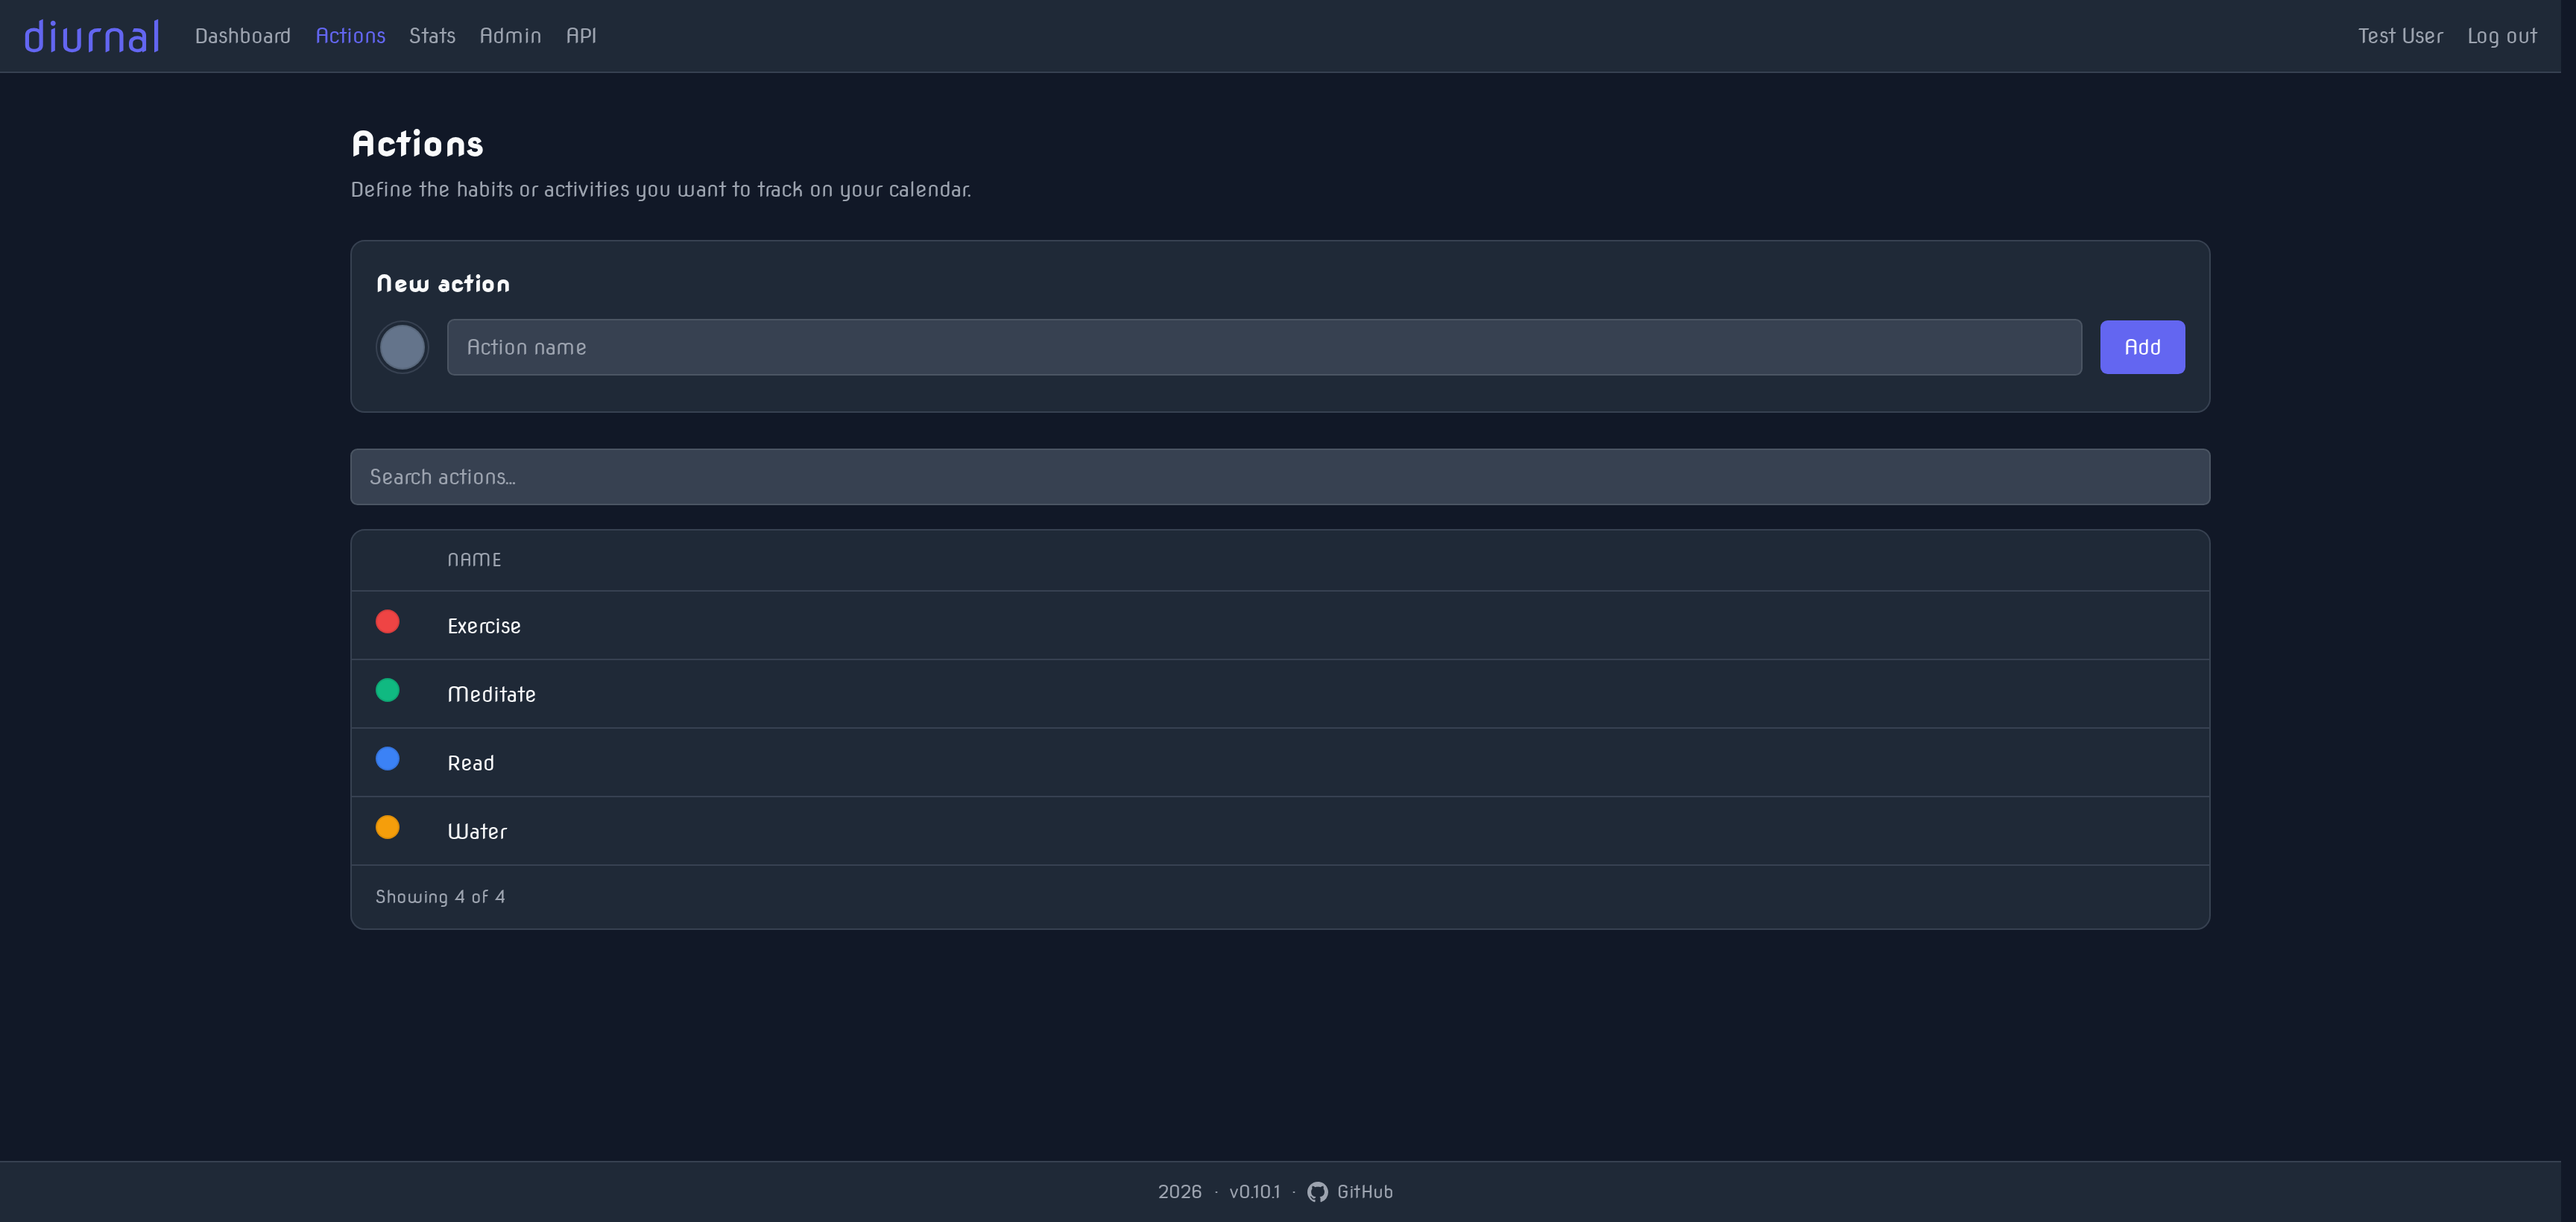
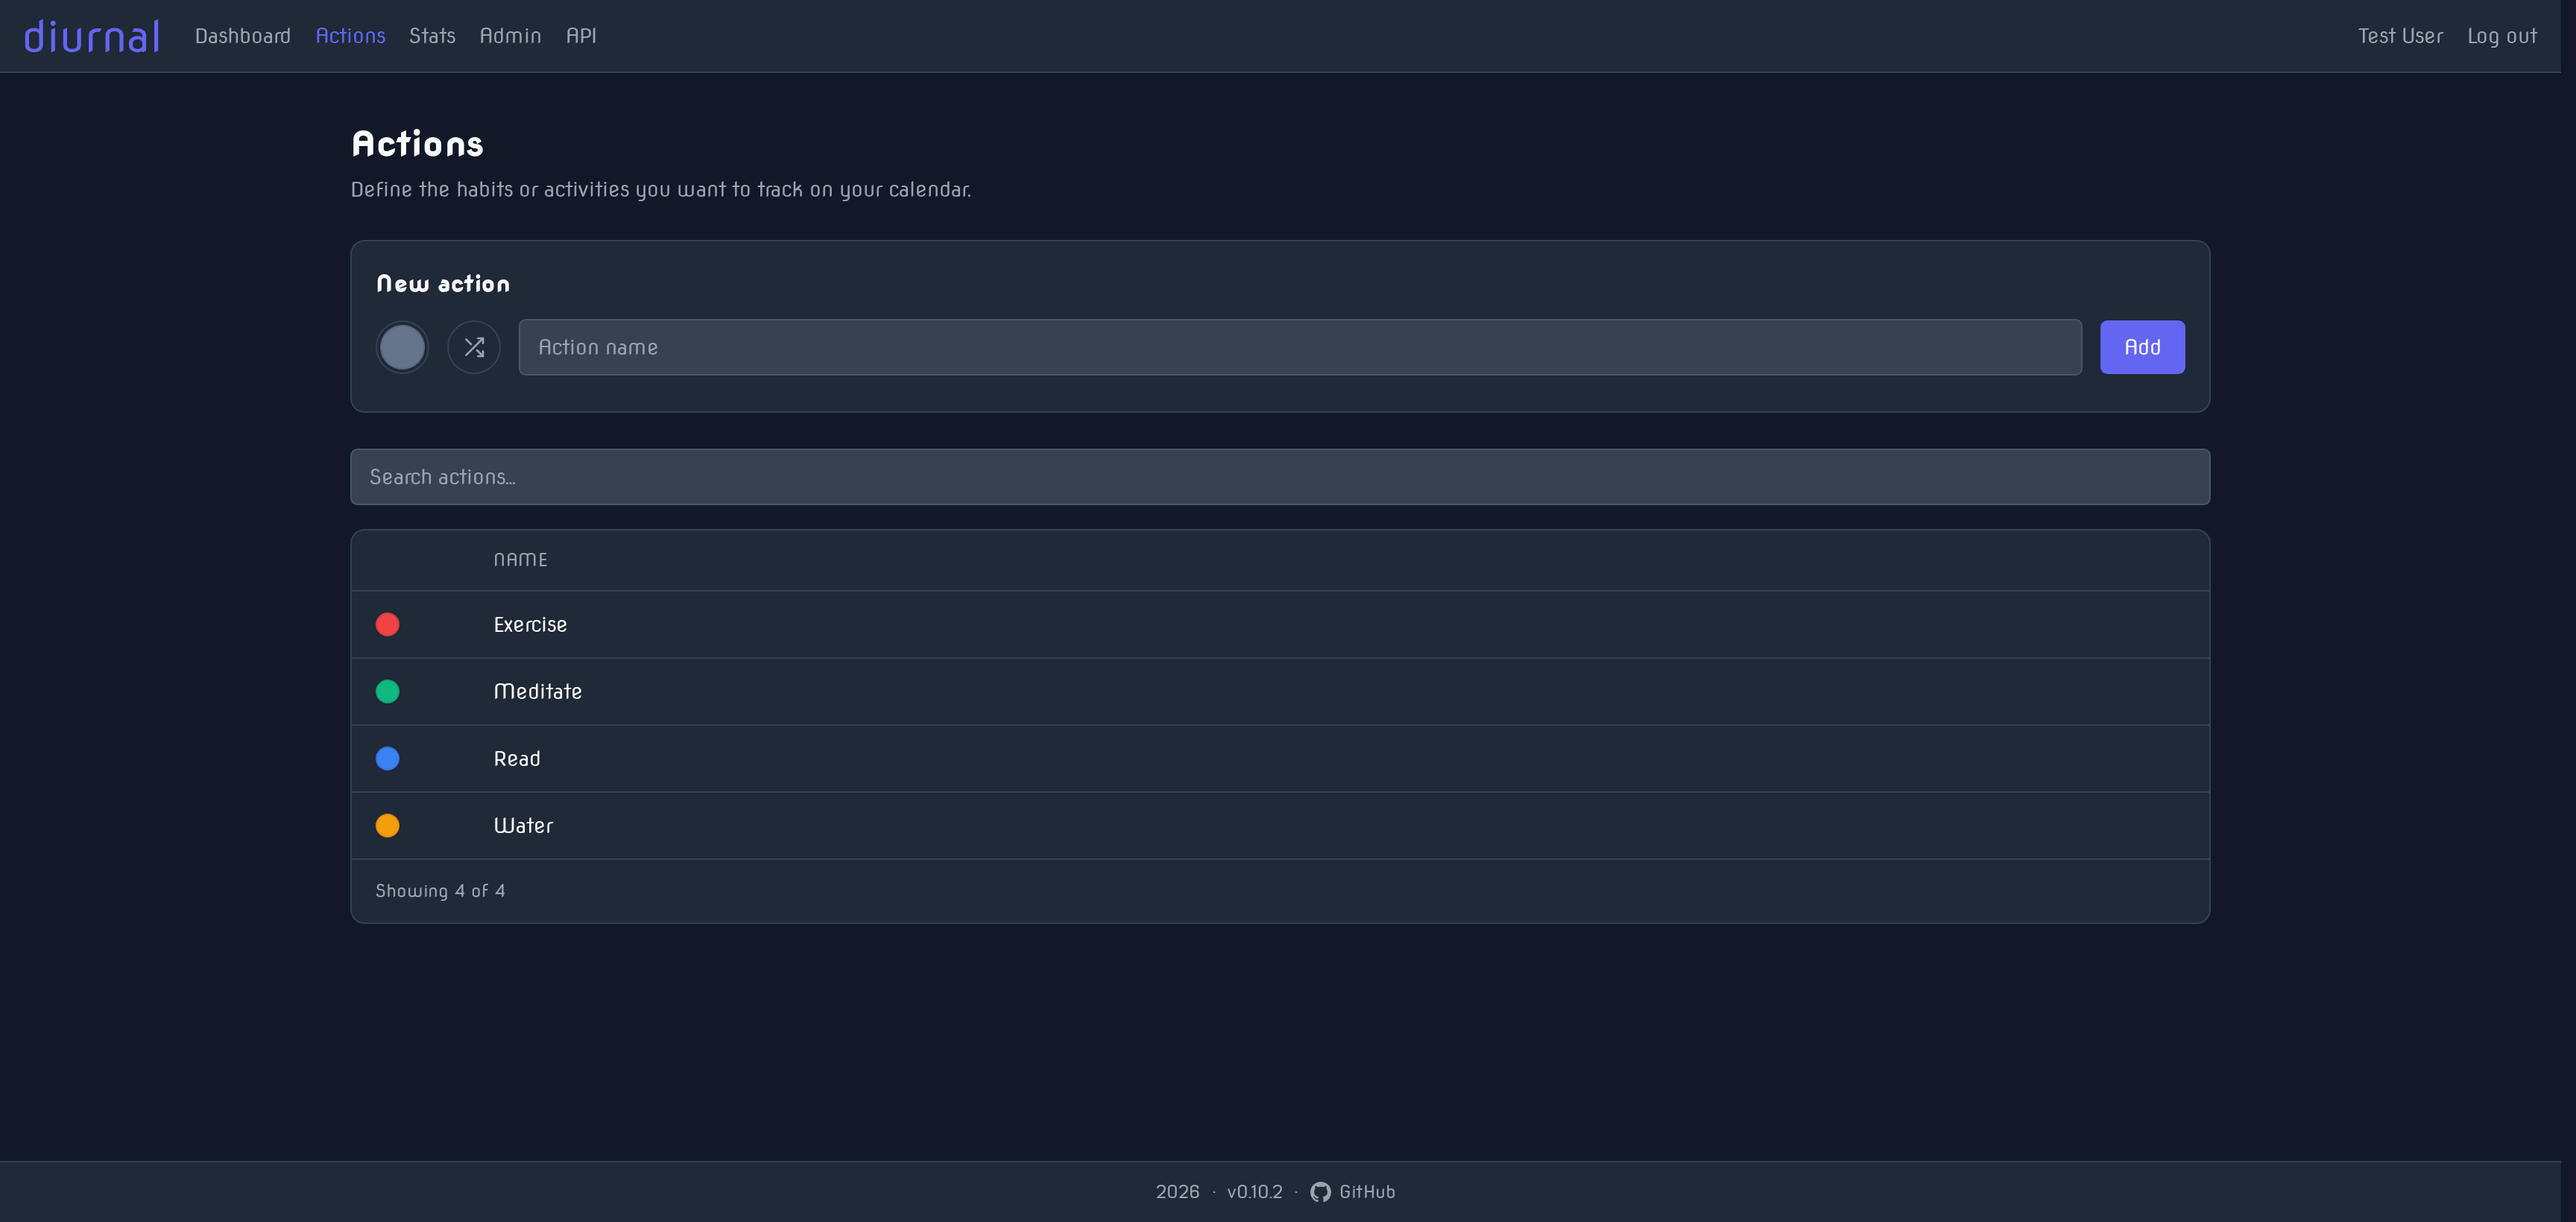
[Settings] Removed 'sessions' section showing last login time, wasn't adding much

diff --git a/src/main/resources/templates/settings.html b/src/main/resources/templates/settings.html
@@ -273,24 +273,6 @@
                         </div>
                         {/if}
 
-                        {! When this account last SIGNED IN - not when it last made a request (which is now, by
-                             definition, since rendering this page is one). lastLoginAt is stamped once per
-                             sign-in, so with a 30-day idle / 90-day absolute session lifetime this can sit weeks
-                             in the past, which is exactly the useful part: it says how long the current run of
-                             "stayed signed in" has lasted, and makes an unexpected recent sign-in visible. The
-                             age leads; the absolute timestamp follows in the user's own timezone. Plain text, no
-                             tooltip - the two readings are the whole content of the field. !}
-                        <div>
-                            <label class="field-label-caps">Last Login</label>
-                            <div class="settings-field">
-                                {#if hasLastLogin}
-                                <p class="text-sm text-ink">{lastLoginAgo}<span class="text-ink-muted"> - {lastLoginLabel}</span></p>
-                                {#else}
-                                <p class="text-sm text-ink-muted">Never</p>
-                                {/if}
-                            </div>
-                        </div>
-
                         {! Log out from everywhere: revokes ALL of this user's sessions (this device
                              included) server-side and returns to /login, forcing a fresh sign-in on every
                              device. Uses the app's in-place confirm idiom (not a native dialog): the trigger

diff --git a/frontend/css/app.css b/frontend/css/app.css
@@ -738,8 +738,16 @@
            wrap, so on a narrow viewport the browser squeezes this column below the width of its own
            content - and the button then wraps onto a SECOND LINE, making every row ~20px taller. With
            nowrap the pair is unbreakable, so the column can never be squeezed below them: the name
-           column gives up the space instead, and the row keeps its single-line height. */
-        .dt-cell-colour { white-space: nowrap; }
+           column gives up the space instead, and the row keeps its single-line height.
+           `width: 1%` (the same shrink-to-content trick as .dt-cell-actions above) pins it there.
+           Without it the column is auto-width, so it takes a SHARE of whatever space auto layout has
+           left over - and how much is left over changes with the row's state: on a narrow viewport the
+           read row overflows the wrap (no leftover, column at its content width), while entering edit
+           swaps the long name text for a `w-full` input that can shrink, letting the table fit and
+           freeing a few pixels to hand back. The column then gained ~2px and pushed the name sideways,
+           which .dt-random-slot below is specifically there to prevent. At `width: 1%` the leftover all
+           goes to the name column, so this one measures the same in both states. */
+        .dt-cell-colour { width: 1%; white-space: nowrap; }
         /* The cell's own content: one centred flex line, so the swatch/picker and the button share an
            axis with each other and with the row (see the note in action-row.html - baseline-aligned
            inline boxes sit high, `vertical-align: middle` sits low). The gap replaces a margin on the

diff --git a/tests/ui/actions.spec.ts b/tests/ui/actions.spec.ts
@@ -137,17 +137,21 @@ test.describe("Actions page", () => {
         ])
 
         // The colour column is sized for its widest (edit) state, so revealing the picker and the
-        // randomise button must not push the name along.
+        // randomise button must not push the name along. Its LEFT EDGE is the assertion (the cell's
+        // own width legitimately changes on a narrow viewport, where the long name text gives way to a
+        // w-full input that can shrink). Measured as offsetLeft WITHIN the table, not as a viewport
+        // box: on a narrow viewport the table overflows its .overflow-x-auto wrap, and focusing the
+        // edit input scrolls that wrap sideways - a scroll, not a shift, which a viewport-relative x
+        // would report as a spurious move.
         const item = page.locator('#action-list [id^="action-"]').filter({ hasText: name })
         const nameCell = item.locator("td").nth(1)
-        const readBox = await nameCell.boundingBox()
+        const cellOffset = (): Promise<number> => nameCell.evaluate((cell: HTMLElement) => cell.offsetLeft)
+        const readOffset = await cellOffset()
         await item.hover()
         await item.getByRole("button", { name: "Edit" }).click()
         await expect(item.locator('input[name="name"]')).toBeVisible()
-        const editBox = await nameCell.boundingBox()
 
-        expect(readBox).not.toBeNull()
-        expect(editBox?.x).toBe(readBox?.x)
+        expect(await cellOffset()).toBe(readOffset)
     })
 
     test("edit action: randomise button recolours the row", async ({ authenticatedPage: page }) => {

diff --git a/src/main/java/net/zodac/diurnal/web/WebResource.java b/src/main/java/net/zodac/diurnal/web/WebResource.java
@@ -44,8 +44,6 @@ import java.net.URI;
 import java.time.Duration;
 import java.time.Instant;
 import java.time.LocalDate;
-import java.time.ZoneId;
-import java.time.format.DateTimeFormatter;
 import java.util.List;
 import java.util.Optional;
 import net.zodac.diurnal.auth.AuthenticationService;
@@ -71,7 +69,6 @@ import net.zodac.diurnal.stats.ActionStatField;
 import net.zodac.diurnal.stats.StatsService;
 import net.zodac.diurnal.stats.StatsSummary;
 import net.zodac.diurnal.time.AppClock;
-import net.zodac.diurnal.time.ElapsedTime;
 import net.zodac.diurnal.user.CalendarView;
 import net.zodac.diurnal.user.CurrentUser;
 import net.zodac.diurnal.user.Font;
@@ -111,10 +108,6 @@ public class WebResource {
 
     // The ?msg= code for a successful connect round trip (failure codes are OidcDenialReason codes).
     private static final String MSG_OIDC_CONNECTED = "oidc-connected";
-
-    // The Account card's absolute last-login timestamp, in the same shape as the admin users table's dates
-    // (zoneless here - the viewing user's zone is bound per render).
-    private static final DateTimeFormatter LAST_LOGIN_FORMATTER = DateTimeFormatter.ofPattern("yyyy-MM-dd HH:mm");
 
     private final Template loginTemplate;
     private final Template registerTemplate;
@@ -796,20 +789,9 @@ public class WebResource {
             settingsMessage = OidcDenialReason.fromCode(msg).map(reason -> reason.message(providerName)).orElse(null);
             settingsMessageIsError = settingsMessage != null;
         }
-        // The Account card's "Last login" readout. lastLoginAt is stamped once per sign-in (password login,
-        // OIDC callback, registration) and is never bumped by ordinary requests, so it really is the last
-        // time this account signed in - unlike the session's last_used_at, which the very act of rendering
-        // this page updates. It reads as an age ("12 days ago") next to the absolute timestamp in the user's
-        // own timezone (no tooltip - the reading is the whole point). Null only for an account that has somehow
-        // never signed in (it could not be viewing this page), handled for template strictness.
-        final ZoneId zone = clock.zoneFor(user.timezone);
-        final Instant lastLogin = user.lastLoginAt;
         return settingsTemplate
                 .data("settingsMessage", settingsMessage)
                 .data("settingsBannerVariant", settingsMessageIsError ? "error" : "success")
-                .data("hasLastLogin", lastLogin != null)
-                .data("lastLoginAgo", lastLogin == null ? "" : ElapsedTime.since(lastLogin, clock.now()))
-                .data("lastLoginLabel", lastLogin == null ? "" : LAST_LOGIN_FORMATTER.withZone(zone).format(lastLogin))
                 .data("oidcEnabled", quarkusOidcConfig.tenantEnabled())
                 .data("oidcIssuerUrl", quarkusOidcConfig.authServerUrl())
                 .data("email", user.email)

diff --git a/README.md b/README.md
@@ -371,8 +371,6 @@ Each user can customise Diurnal from the **Settings** page (top-right menu).
 - **Display name**: The name shown in the app
 - **Password**: Change your password, if enabled. Changing it signs out every *other* device.
 - **Identity provider**: Shown when [OIDC](#oidc) is configured. Links to the IdP or allows a user to connect a password-only account
-- **Last login**: When this account last *signed in* (not when it was last used), as an age plus the timestamp in your own timezone. With the
-  [session lifetimes](#sessions) it can sit weeks in the past — an unexpectedly recent sign-in is worth a second look
 - **Sessions**: **Log out everywhere** revokes every session forcing a fresh sign-in on all devices (includes the current device)
 
 ### Preferences
